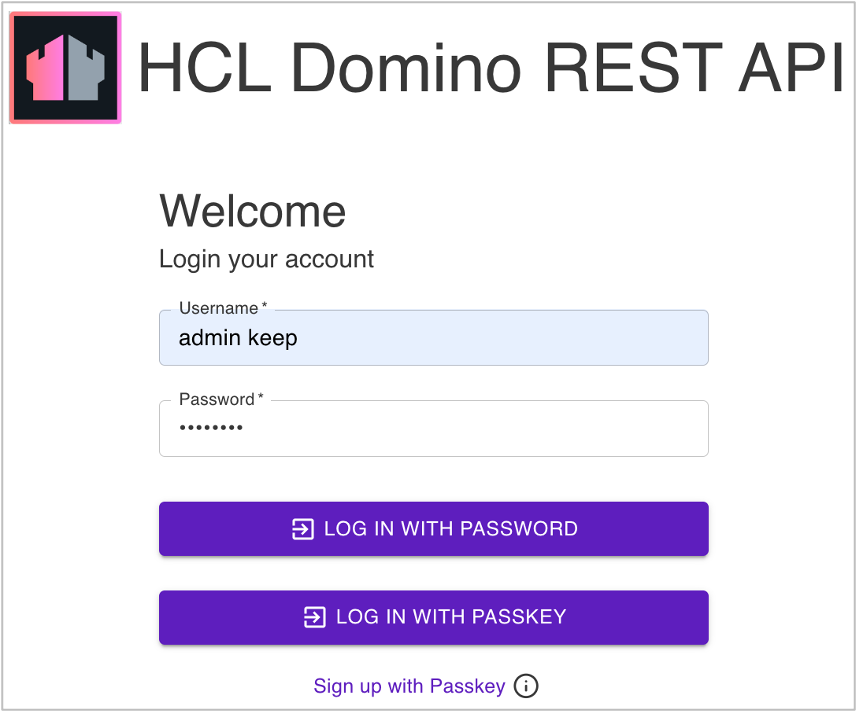
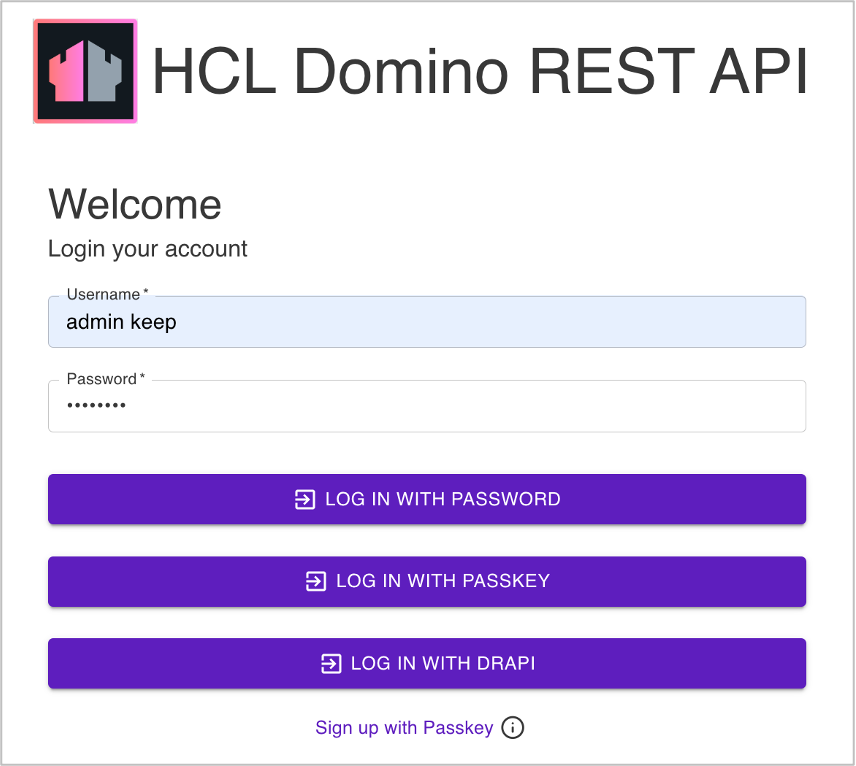
Updated images for DRAPI v112

diff --git a/docs/tutorial/quickstart.md b/docs/tutorial/quickstart.md
@@ -84,7 +84,7 @@ The [Postman collection](../references/downloads.md) has sample interactions wit
 - **VoltMX administrator** configures Volt MX's foundry middleware to interact with Domino REST API using the foundry Domino REST API adapter
 - **Application developer** develops applications leveraging Domino REST API Endpoints, VoltMX services and front-end tools like VoltMX Iris, VSCode or any tools and framework of choice
 
-Read more about them in [Domino REST API roles](../references/usingdominorestapi/roles.md). 
+Read more about them in [Domino REST API roles](../references/usingdominorestapi/roles.md).
 
 ### Endpoints
 
@@ -96,7 +96,7 @@ Bring up a browser and verify that you can hit these endpoints:
 | [Domino REST API Home Page](http://localhost:8880/)                                                   | 8880  | Start page                                                                                                                                                                                                                                                                                                                                | ![StartPage](../assets/images/startpage.png)                  |
 | [Live Domino REST API](http://localhost:8880/openapi/index.html?url=/api/v1/schema/openapi.core.json) | 8880  | Interact live with the API                                                                                                                                                                                                                                                                                                                | ![OpenAPI](../assets/images/OpenAPI.png)                      |
 | [Admin UI](http://localhost:8880/admin/ui/)                                                           | 8880  | Login with an admin user. LocalDomainAdmin member                                                                                                                                                                                                                                                                                         | ![Admin Login](../assets/images/AdminLogin.png)               |
-| [Management API](http://localhost:8889/)                                                              | 8889  | Access to the log and runtime info                                                                                                                                                                                                                                                                                                        | ![Server Info](../assets/images/ServerInfo.png)               |
+| [Management API](http://localhost:8889/)                                                              | 8889  | Access to the log and runtime info                                                                                                                                                                                                                                                                                                        | ![Server Info](../assets/images/mngmntconsole.png)              |
 | [Prometheus Metrics](http://localhost:8890/)                                                          | 8890  | Performance info in Prometheus format. Protected with basic authentication (metrics/metrics)                                                                                                                                                                                                                                              | ![Performance Metris](../assets/images/PrometheusMetrics.png) |
 | [Health check endpoint](http://localhost:8886/)                                                       | 8886  | Server healthcheck endpoint as used by Kubernetes or Openshift                                                                                                                                                                                                                                                                            |
 | [Auth](http://localhost:8880/api/v1/auth)                                                             | 8880  | The endpoint, `[POST] http/s://${HOST}:8880/api/v1/auth`, is the default end point to exchange Domino web credentials for a JWT access token. For example, use the token in Postman request headers as a Bearer authentication header. You also can use your [own IdP](../howto/IdP/configuringIdentityProvider.md) to gain access tokens |

diff --git a/docs/howto/install/passkey.md b/docs/howto/install/passkey.md
@@ -1,9 +1,10 @@
 # Use WebAuthn (Passkey) to log in to Admin UI
 
 !!!caution "Important"
-    This feature is only applicable if your host is using HTTPS. 
+    This feature is only applicable if your host is using HTTPS.
 
 ## About this task
+
 The procedures guide you in using a passkey to log in to **Admin UI**. The procedures involve:
 
 - signing up with passkey
@@ -21,7 +22,8 @@ Passkeys are better options to passwords as they use public key cryptography to 
 - You have an Apple ID to set up iCloud Keychain.
 - Your Mac has a Touch ID sensor, you have a connected iPhone or iPad, or you have an external security key.
 
-!!!note 
+!!! note
+
     Chrome supports passkeys on iCloud Keychain starting in Chrome 118, on macOS 13.5 or later. For more information, see [Chrome for Developers blog post](https://developer.chrome.com/blog/passkeys-on-icloud-keychain).
 
 ### For Windows
@@ -38,21 +40,22 @@ Some third-party password managers, such as [1Password](https://1password.com/pr
 ### To sign up with passkey
 
 1. Open the **Domino REST API Admin UI** sign-in page in your browser.
-2. Enter your **Username** and **Password**, and then click **Sign up with Passkey**. 
+2. Enter your **Username** and **Password**, and then click **Sign up with Passkey**.
 
     ![Sign up with passkey](../../assets/images/signuppasskey.png){: style="height:60%;width:60%"}
-    
-    A dialog opens. The following image shows an example of the dialog opened in Chrome on macOS. 
 
-    ![Create a passkey dialog](../../assets/images/passkeydialog.png){: style="height:60%;width:60%"}          
+    A dialog opens. The following image shows an example of the dialog opened in Chrome on macOS.
 
-3. Using the provided example, you can click **Create** or click **Save another way** to choose where to save your passkey from the available options. Follow the succeeding instructions to complete the process. 
+    ![Create a passkey dialog](../../assets/images/passkeydialog.png){: style="height:60%;width:60%"}
+
+3. Using the provided example, you can click **Create** or click **Save another way** to choose where to save your passkey from the available options. Follow the succeeding instructions to complete the process.
 
 You have now logged in to the **Domino REST API Admin UI**.
 
-### To log in to Admin UI with passkey
+### To log in with passkey
 
-!!!note
+!!! note
+
     See [Configure WebAuthn with Domino REST API and Domino 14](../../howto/install/webauthn.md) to use the same passkey.
 
 1. Open the **Domino REST API Admin UI** sign-in page in your browser. The **Username** field is already filled with the username you used when you signed up with your passkey.  
@@ -71,4 +74,3 @@ Check and follow the instructions for clearing a passkey on the Internet based o
 - [Remove a passkey or password from your Mac and iCloud Keychain](https://support.apple.com/en-ph/guide/mac-help/mchl77e2cb66/14.0/mac/14.0)
 - [Manage your passkeys in Windows](https://support.microsoft.com/en-us/windows/manage-your-passkeys-in-windows-6a70599a-25e1-4461-86be-d67d1023c69f)
 - [Manage passkeys in Chrome](https://support.google.com/chrome/answer/13168025?hl=en&co=GENIE.Platform%3DDesktop#zippy=%2Cmanage-passkeys-in-macos%2Cmanage-passkeys-in-windows)
-
